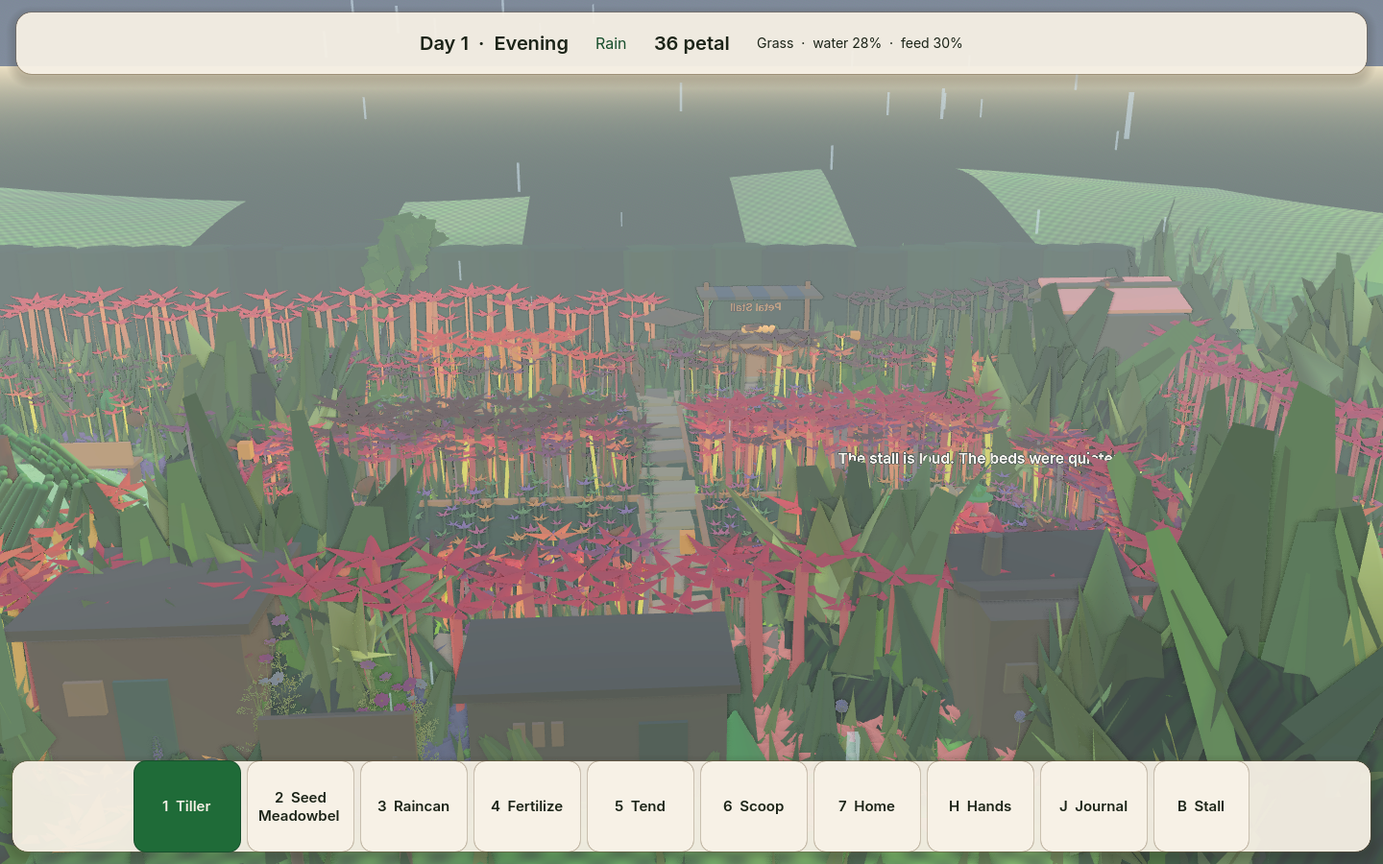
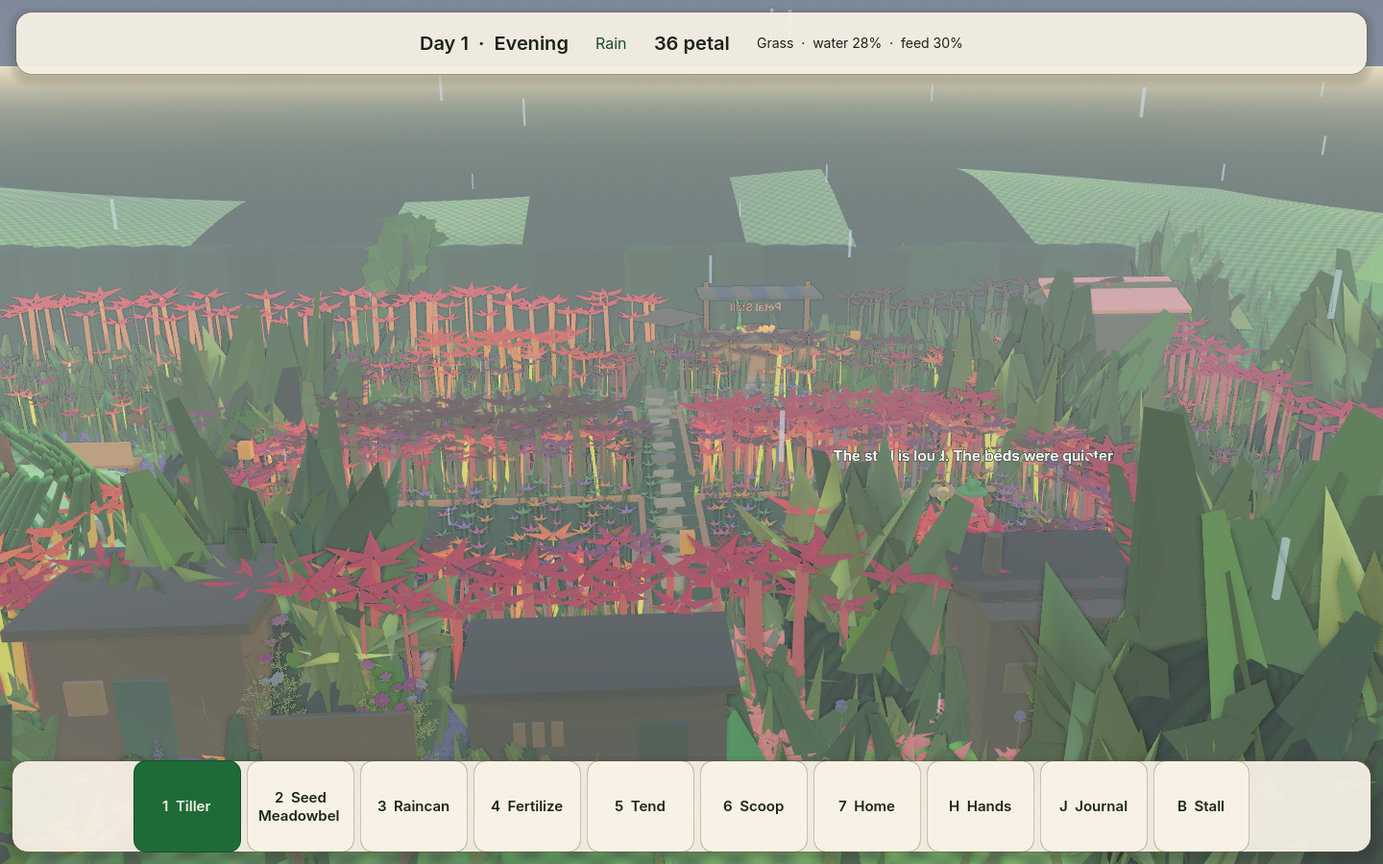
Narrow the north-south track between the beds.
The shoulders return to meadow and the center stays a stone track. On this shot 1.46% of the upper band is light-green and the hill mean is (212.2, 223.9, 146.6).

diff --git a/docs/PETALWILD_MASTER_STATE.md b/docs/PETALWILD_MASTER_STATE.md
@@ -38,7 +38,7 @@ This machine has no Vulkan surface. Godot falls back to OpenGL 3 / llvmpipe. Aud
 - The garden does not yet look like the concept plates. See the gap list below.
 - Bellhelp’s five sphere lobes are gone. Five narrow petals run from the tips down to a small pad, with a dark five-petal well, a gold seed, a wider flared whorl, a lower rim, five gap tips past the lobes, a darker band, and a wide short rank inside the tips. The wide skirt of spheres is gone.
 - Lumen’s stalk is one fluted taper, cream at the base and green at the crown. The raised hand holds a seed tray. Each hand is a palm with three fingers and a thumb.
-- Crest leaf cards are 0.4 scale, and the far hedge keeps one 2.5 m tuft in four. A dark shrub row stands just behind that wall, taller at the east end. Light-green in the upper opening band fell from 53% to 24%, and in the lower band from 36% to 13%. The hill did not move. The stall still shows through the middle. The bright blue in that opening was the awning cloth. That stripe is darker now, about (171, 171, 173), and the sky-blue detector on the overview is 0. The shrub row behind the wall was the pale green in the upper band. That check now covers 1.2%, down from 3.5%. The crest leaf cards and the far trees were the side-opening pale pixels. The north backdrop trees are shorter. Paths are dark dirt with darker flagstones. Blooms are rose. StandardMaterial specular is off. The bench and planter are darkened, bright plant-atlas texels are capped, and the lantern glass is amber. The pink disk by the south-west rail, the untilled grass-plot tops, the meadowbell petals, the mauve bed, the resident hands, the light flagstones, the path dirt, and the loose stones are darkened. Overview pixels at pure white are 0. A planted cell keeps the meadow lid, so the crop sits in the bed. The north and south plots meet across the lawn. Flowers spill past the outer edges of the four beds and still line the north-south path. The path center stays open. On this shot the upper-band check is 1.45% (1083 pixels) and the hill mean is (212.2, 223.9, 146.6). Eight bees drift over the beds. Four birds cross the garden by day and perch at dusk and in the rain.
+- Crest leaf cards are 0.4 scale, and the far hedge keeps one 2.5 m tuft in four. A dark shrub row stands just behind that wall, taller at the east end. Light-green in the upper opening band fell from 53% to 24%, and in the lower band from 36% to 13%. The hill did not move. The stall still shows through the middle. The bright blue in that opening was the awning cloth. That stripe is darker now, about (171, 171, 173), and the sky-blue detector on the overview is 0. The shrub row behind the wall was the pale green in the upper band. That check now covers 1.2%, down from 3.5%. The crest leaf cards and the far trees were the side-opening pale pixels. The north backdrop trees are shorter. Paths are dark dirt with darker flagstones. Blooms are rose. StandardMaterial specular is off. The bench and planter are darkened, bright plant-atlas texels are capped, and the lantern glass is amber. The pink disk by the south-west rail, the untilled grass-plot tops, the meadowbell petals, the mauve bed, the resident hands, the light flagstones, the path dirt, and the loose stones are darkened. Overview pixels at pure white are 0. A planted cell keeps the meadow lid, so the crop sits in the bed. The north and south plots meet across the lawn. Flowers spill past the outer edges of the four beds and still line the north-south path. The path center stays open. The north-south track is narrower and its shoulders are meadow. On this shot the upper-band check is 1.46% (1091 pixels) and the hill mean is (212.2, 223.9, 146.6). Eight bees drift over the beds. Four birds cross the garden by day and perch at dusk and in the rain.
 - City, venues, and the agent civilisation are a single parish record (`data/district.json`, Hedge Hollow, phase A).
 - On-screen jellies stay at district fidelity or nearer. The directory shows each resident's home and job. The parish page lists venues. Petal Stall, the potting shed, the hedge tea house, the research hut, the media foundry, and the town hall board are open. Grove Park is not built, and demand for it is not simulated. Petal Stall demand is the people present plus creature residents.
 - Trust cannot research, draft, or act outside the process.
@@ -64,14 +64,14 @@ Spent: 0. Remaining on the connected account: **367.46** (pro). Catalog check re
 
 Compared `docs/screenshots/wave1_overview.png`, `wave1_jelly.png`, and `wave1_lumen.png` with `docs/reference/petalwild_target_garden_01.png` and `petalwild_target_garden_02.png`.
 
-The north backdrop trees are shorter than the hedge. Crest leaf cards are 0.4 scale, and the far hedge keeps one 2.5 m tuft in four. A dark shrub row stands just behind that wall, taller at the east end. Light-green pixels fell from 53% to 24% in the upper opening band (screen y 265–320) and from 36% to 13% in the lower band (y 290–360). East-lip luminance (y 252–272) fell from 200 to 162. The hill (y 200–245) did not change. Bellhelp’s close-up is on open lawn: five narrow lobes, a dark five-petal well, a gold seed, a wider flared whorl, a lower rim, five gap tips past the lobes, a darker band, and a wide short rank inside the tips. The bench and planter use a dark multiply, bright plant-atlas texels are capped, and the lantern glass is amber. The pink disk by the south-west rail, the untilled grass-plot tops, the meadowbell petals, the mauve bed, the resident hands, the light flagstones, the path dirt, and the loose stones are darkened. Pure white on this overview is 0. The stall awning’s bright blue was cloth, now about (171, 171, 173), and the sky-blue detector is 0. The shrub row behind the wall no longer reads as pale green; that upper-band check is 1.2%. On the previous shot that check was 1.17% and the hill mean was (212.9, 224.4, 147.6). With the hedge tea house in the lower left, that shot was 1.30%. With the research hut in the lower middle, that shot was 1.17% (874 pixels). With the media foundry in the lower middle, that shot was 1.15% (862 pixels). With the town hall board in the south gate, that shot was 1.29% (968 pixels) and the hill mean was (212.0, 223.6, 146.4). On that shot the check was 1.54% (1155 pixels) and the hill mean was (212.0, 223.7, 146.5). Empty untilled beds now carry nine dark leaf discs and eight short flowers, and a tilled or planted bed clears them. On the leaf-cover shot the check was 1.60% (1197 pixels) and the hill mean was (212.1, 223.8, 146.5). Neighboring empty cells now share an overlapping dark lid, so the brown seam inside a plot closes. On the joined-lid shot the check was 1.61% (1208 pixels) and the hill mean was (212.1, 223.8, 146.5). A planted cell now keeps that dark lid, so the crop sits in the meadow instead of an inset square. On the planted-lid shot the check was 1.54% (1149 pixels) and the hill mean was (212.1, 223.7, 146.5). The north and south plots now meet across the lawn, and the north-south path stays open. On the bridge shot the check was 1.57% (1176 pixels) and the hill mean was (212.2, 223.8, 146.6). Flowers now sit on both lips of the north-south path, and the path center stays open. On the path-lip shot the check was 1.61% (1204 pixels) and the hill mean was (212.1, 223.8, 146.5). Flowers now spill past the outer edges of the four beds, and the path-center pixels are unchanged. On this shot the check is 1.45% (1083 pixels) and the hill mean is (212.2, 223.9, 146.6). The swing is the west edge of the hill under the swaying leaves. A planted meadowbell is three bells on a leaf pad, and every crop sits in a ring of eight leaves. Eight bees drift over the beds. Four birds cross the garden by day and perch at dusk and in the rain. Paths are flagstones on dark dirt. Lumen’s stalk is one fluted taper, and the raised hand holds the seed tray. `PETAL_SMOKE_OK`, `PETAL_RULES_OK`, and `PETAL_CAPTURE_OK` passed on this tree. Shots are the six `wave1_*.png` files.
+The north backdrop trees are shorter than the hedge. Crest leaf cards are 0.4 scale, and the far hedge keeps one 2.5 m tuft in four. A dark shrub row stands just behind that wall, taller at the east end. Light-green pixels fell from 53% to 24% in the upper opening band (screen y 265–320) and from 36% to 13% in the lower band (y 290–360). East-lip luminance (y 252–272) fell from 200 to 162. The hill (y 200–245) did not change. Bellhelp’s close-up is on open lawn: five narrow lobes, a dark five-petal well, a gold seed, a wider flared whorl, a lower rim, five gap tips past the lobes, a darker band, and a wide short rank inside the tips. The bench and planter use a dark multiply, bright plant-atlas texels are capped, and the lantern glass is amber. The pink disk by the south-west rail, the untilled grass-plot tops, the meadowbell petals, the mauve bed, the resident hands, the light flagstones, the path dirt, and the loose stones are darkened. Pure white on this overview is 0. The stall awning’s bright blue was cloth, now about (171, 171, 173), and the sky-blue detector is 0. The shrub row behind the wall no longer reads as pale green; that upper-band check is 1.2%. On the previous shot that check was 1.17% and the hill mean was (212.9, 224.4, 147.6). With the hedge tea house in the lower left, that shot was 1.30%. With the research hut in the lower middle, that shot was 1.17% (874 pixels). With the media foundry in the lower middle, that shot was 1.15% (862 pixels). With the town hall board in the south gate, that shot was 1.29% (968 pixels) and the hill mean was (212.0, 223.6, 146.4). On that shot the check was 1.54% (1155 pixels) and the hill mean was (212.0, 223.7, 146.5). Empty untilled beds now carry nine dark leaf discs and eight short flowers, and a tilled or planted bed clears them. On the leaf-cover shot the check was 1.60% (1197 pixels) and the hill mean was (212.1, 223.8, 146.5). Neighboring empty cells now share an overlapping dark lid, so the brown seam inside a plot closes. On the joined-lid shot the check was 1.61% (1208 pixels) and the hill mean was (212.1, 223.8, 146.5). A planted cell now keeps that dark lid, so the crop sits in the meadow instead of an inset square. On the planted-lid shot the check was 1.54% (1149 pixels) and the hill mean was (212.1, 223.7, 146.5). The north and south plots now meet across the lawn, and the north-south path stays open. On the bridge shot the check was 1.57% (1176 pixels) and the hill mean was (212.2, 223.8, 146.6). Flowers now sit on both lips of the north-south path, and the path center stays open. On the path-lip shot the check was 1.61% (1204 pixels) and the hill mean was (212.1, 223.8, 146.5). Flowers now spill past the outer edges of the four beds, and the path-center pixels are unchanged. On the bed-edge shot the check was 1.45% (1083 pixels) and the hill mean was (212.2, 223.9, 146.6). The north-south track is narrower, its shoulders are meadow, and the center stays stone. On this shot the check is 1.46% (1091 pixels) and the hill mean is (212.2, 223.9, 146.6). The swing is the west edge of the hill under the swaying leaves. A planted meadowbell is three bells on a leaf pad, and every crop sits in a ring of eight leaves. Eight bees drift over the beds. Four birds cross the garden by day and perch at dusk and in the rain. Paths are flagstones on dark dirt. Lumen’s stalk is one fluted taper, and the raised hand holds the seed tray. `PETAL_SMOKE_OK`, `PETAL_RULES_OK`, and `PETAL_CAPTURE_OK` passed on this tree. Shots are the six `wave1_*.png` files.
 
 Three largest gaps still open, against `docs/reference/petalwild_target_garden_01.png` and `petalwild_target_garden_02.png`:
 
-1. **Hedge skyline.** The crest cards and the far trees are darker. On this shot 1.45% of the upper band is still light-green (1083 pixels), mostly the west edge of the hill. The hill mean is (212.2, 223.9, 146.6). The stall still shows through the middle. The south rooms, the gate board, and the bed blooms sit lower and do not cover that edge. PETAL-05.
+1. **Hedge skyline.** The crest cards and the far trees are darker. On this shot 1.46% of the upper band is still light-green (1091 pixels), mostly the west edge of the hill. The hill mean is (212.2, 223.9, 146.6). The stall still shows through the middle. The south rooms, the gate board, and the bed blooms sit lower and do not cover that edge. PETAL-05.
 2. **Bellhelp.** Ten tips, a short rank inside them, a darker band, and a wider skirt. The dark throat is still the center. PETAL-03.
-3. **Plot grid.** Flowers spill past the outer edges of the four beds and still line the north-south path. The path center stays open. That path still cuts the west beds from the east beds. The plates are one continuous planting. Overview pixels at pure white are 0, and the brightest leftover is still the warm horizon at screen x 1034, y 178, (255, 255, 201). That is sky. PETAL-06.
+3. **Plot grid.** Flowers spill past the outer edges of the four beds and still line the north-south path. The north-south track is narrower, its shoulders are meadow, and the center stays a stone track. That track still cuts the west beds from the east beds. The plates are one continuous planting. Overview pixels at pure white are 0, and the brightest leftover is still the warm horizon at screen x 1034, y 178, (255, 255, 201). That is sky. PETAL-06.
 
 ## Next integration
 
-Keep this build playable. The next pass stays inside `scenes/main.tscn` (Hedge Hollow). The creature chain through Gushorn can happen in this garden, and two resident Bellhelps raise the species to breeding. The later resident walks to the first, the journal says a pair is in the parish, a reload keeps that pair, and off-screen they share the first resident's home kit. Grove Park is still not built. The hedge tea house stands on the south lawn. The research hut stands west of it, and the media foundry stands between them. The town hall is a board by the south gate. Meadowbells are a clump of three, and every crop sits in a ring of leaves. Flowers spill past the outer edges of the four beds and still line the north-south path. The path center stays open. That path still cuts the west beds from the east beds. On this shot 1.45% of the upper band is still light green (1083 pixels), mostly the west edge of the hill, and the stall still shows through the middle. The hill mean is (212.2, 223.9, 146.6). The south rooms and the town hall board sit in the foreground. Bees sit on the flowers while it rains. Do not paint that hill edge, do not cut the hill, and do not raise the east shrubs. Do not fill Bellhelp’s dark throat. Do not open a side demo. The Kenney/Cara grove in `scripts/presentation/` is not the running scene.
+Keep this build playable. The next pass stays inside `scenes/main.tscn` (Hedge Hollow). The creature chain through Gushorn can happen in this garden, and two resident Bellhelps raise the species to breeding. The later resident walks to the first, the journal says a pair is in the parish, a reload keeps that pair, and off-screen they share the first resident's home kit. Grove Park is still not built. The hedge tea house stands on the south lawn. The research hut stands west of it, and the media foundry stands between them. The town hall is a board by the south gate. Meadowbells are a clump of three, and every crop sits in a ring of leaves. Flowers spill past the outer edges of the four beds and still line the north-south path. The north-south track is narrower, its shoulders are meadow, and the center stays a stone track. That track still cuts the west beds from the east beds. On this shot 1.46% of the upper band is still light green (1091 pixels), mostly the west edge of the hill, and the stall still shows through the middle. The hill mean is (212.2, 223.9, 146.6). The south rooms and the town hall board sit in the foreground. Bees sit on the flowers while it rains. Do not paint that hill edge, do not cut the hill, and do not raise the east shrubs. Do not fill Bellhelp’s dark throat. Do not open a side demo. The Kenney/Cara grove in `scripts/presentation/` is not the running scene.

diff --git a/docs/VISUAL_GAP.md b/docs/VISUAL_GAP.md
@@ -2,12 +2,12 @@
 
 Compared on 2026-09-22. The scene `tools/run.sh` launches is Hedge Hollow. Shots: `docs/screenshots/wave1_overview.png`, `wave1_jelly.png`, `wave1_lumen.png`. Targets: `docs/reference/petalwild_target_garden_01.png` and `petalwild_target_garden_02.png`.
 
-The north backdrop trees are shorter than the hedge. Crest leaf cards are 0.4 of their old size, and the far wall keeps one 2.5 m tuft in four. A row of dark shrubs stands just behind that wall. The east end is taller so its lip meets the hedge line. Light-green pixels in the upper opening band (screen y 265–320, x 40–1400) fell from 53% to 24%, and in the lower band (y 290–360, x 80–1200) from 36% to 13%. On the east lip (y 252–272, x 40–300) mean luminance fell from 200 to 162. The hill (y 200–245) did not change. The stall still sits in front of the middle of the wall. The bright blue band in that opening was the awning cloth, not a hole in the hedge. That stripe is darker now and reads about (171, 171, 173). A sky-blue detector on the overview (blue above 200, ahead of red by 20 and of green by 10) is 0. The shrub row behind the wall was lifting to pale green under the sun. The same light-green check (green ahead of red by 15 and of blue by 20, green above 140) now covers 1.2% of the upper band, down from 3.5% on the previous shot. The crest leaf cards and the far trees were the pale pixels in the side openings. The upper hill (screen y 200–230) stayed at about (213, 224, 148). The ground sky below the horizon is green, so a hole in the hill reads as olive rather than pale sky. Bellhelp’s close-up shows five pointed lobes, five gap tips past them, a wide short rank inside that ring, a darker band, and a wider flared whorl. The dark throat stays. The wide skirt of spheres is gone. The bench and planter use a dark multiply on the prop texture, and bright plant-atlas texels are capped. The three lantern glasses are amber instead of pure white. The pink disk by the south-west rail, the untilled grass-plot tops, the meadowbell petals, the mauve bed, the resident hands, the light flagstones, the path dirt, and the loose stones are darkened so they stay under the sun. Eight bees drift over the beds. Four birds cross the garden by day and perch at dusk and in the rain. A planted meadowbell is three bells on a leaf pad, and every crop sits in a ring of eight leaves. Pure white on this overview is 0. On the previous shot the upper-band light-green check was 1.17% and the hill mean was (212.9, 224.4, 147.6). The hedge tea house stands in the lower left of the home shot. On that shot the same check was 1.30% (969 pixels) and the hill mean was (212.0, 223.6, 146.4). The research hut stands in the lower middle of that shot, where the check was 1.17% (874 pixels) and the hill mean was (212.0, 223.6, 146.4). The media foundry stands in the lower middle of that shot, where the check was 1.15% (862 pixels) and the hill mean was (212.0, 223.6, 146.4). The town hall board now stands in the south gate. On the town-hall shot the check was 1.29% (968 pixels) and the hill mean was (212.0, 223.6, 146.4). On the six-bloom shot the check was 1.54% (1155 pixels) and the hill mean was (212.0, 223.7, 146.5). Empty untilled beds now carry nine dark leaf discs and eight short flowers, and a tilled or planted bed clears them. On the leaf-cover shot the check was 1.60% (1197 pixels) and the hill mean was (212.1, 223.8, 146.5). Neighboring empty cells now share an overlapping dark lid, so the brown seam inside a plot closes. On the joined-lid shot the check was 1.61% (1208 pixels) and the hill mean was (212.1, 223.8, 146.5). A planted cell now keeps that dark lid, so the crop sits in the meadow instead of an inset square. On the planted-lid shot the check was 1.54% (1149 pixels) and the hill mean was (212.1, 223.7, 146.5). The north and south plots now meet across the lawn, and the north-south path stays open. On the bridge shot the check was 1.57% (1176 pixels) and the hill mean was (212.2, 223.8, 146.6). Flowers now sit on both lips of the north-south path, and the path center stays open. On the path-lip shot the check was 1.61% (1204 pixels) and the hill mean was (212.1, 223.8, 146.5). Flowers now spill past the outer edges of the four beds, and the path-center pixels are unchanged. On this shot the check is 1.45% (1083 pixels) and the hill mean is (212.2, 223.9, 146.6). The swing is the west edge of the hill under the swaying leaves.
+The north backdrop trees are shorter than the hedge. Crest leaf cards are 0.4 of their old size, and the far wall keeps one 2.5 m tuft in four. A row of dark shrubs stands just behind that wall. The east end is taller so its lip meets the hedge line. Light-green pixels in the upper opening band (screen y 265–320, x 40–1400) fell from 53% to 24%, and in the lower band (y 290–360, x 80–1200) from 36% to 13%. On the east lip (y 252–272, x 40–300) mean luminance fell from 200 to 162. The hill (y 200–245) did not change. The stall still sits in front of the middle of the wall. The bright blue band in that opening was the awning cloth, not a hole in the hedge. That stripe is darker now and reads about (171, 171, 173). A sky-blue detector on the overview (blue above 200, ahead of red by 20 and of green by 10) is 0. The shrub row behind the wall was lifting to pale green under the sun. The same light-green check (green ahead of red by 15 and of blue by 20, green above 140) now covers 1.2% of the upper band, down from 3.5% on the previous shot. The crest leaf cards and the far trees were the pale pixels in the side openings. The upper hill (screen y 200–230) stayed at about (213, 224, 148). The ground sky below the horizon is green, so a hole in the hill reads as olive rather than pale sky. Bellhelp’s close-up shows five pointed lobes, five gap tips past them, a wide short rank inside that ring, a darker band, and a wider flared whorl. The dark throat stays. The wide skirt of spheres is gone. The bench and planter use a dark multiply on the prop texture, and bright plant-atlas texels are capped. The three lantern glasses are amber instead of pure white. The pink disk by the south-west rail, the untilled grass-plot tops, the meadowbell petals, the mauve bed, the resident hands, the light flagstones, the path dirt, and the loose stones are darkened so they stay under the sun. Eight bees drift over the beds. Four birds cross the garden by day and perch at dusk and in the rain. A planted meadowbell is three bells on a leaf pad, and every crop sits in a ring of eight leaves. Pure white on this overview is 0. On the previous shot the upper-band light-green check was 1.17% and the hill mean was (212.9, 224.4, 147.6). The hedge tea house stands in the lower left of the home shot. On that shot the same check was 1.30% (969 pixels) and the hill mean was (212.0, 223.6, 146.4). The research hut stands in the lower middle of that shot, where the check was 1.17% (874 pixels) and the hill mean was (212.0, 223.6, 146.4). The media foundry stands in the lower middle of that shot, where the check was 1.15% (862 pixels) and the hill mean was (212.0, 223.6, 146.4). The town hall board now stands in the south gate. On the town-hall shot the check was 1.29% (968 pixels) and the hill mean was (212.0, 223.6, 146.4). On the six-bloom shot the check was 1.54% (1155 pixels) and the hill mean was (212.0, 223.7, 146.5). Empty untilled beds now carry nine dark leaf discs and eight short flowers, and a tilled or planted bed clears them. On the leaf-cover shot the check was 1.60% (1197 pixels) and the hill mean was (212.1, 223.8, 146.5). Neighboring empty cells now share an overlapping dark lid, so the brown seam inside a plot closes. On the joined-lid shot the check was 1.61% (1208 pixels) and the hill mean was (212.1, 223.8, 146.5). A planted cell now keeps that dark lid, so the crop sits in the meadow instead of an inset square. On the planted-lid shot the check was 1.54% (1149 pixels) and the hill mean was (212.1, 223.7, 146.5). The north and south plots now meet across the lawn, and the north-south path stays open. On the bridge shot the check was 1.57% (1176 pixels) and the hill mean was (212.2, 223.8, 146.6). Flowers now sit on both lips of the north-south path, and the path center stays open. On the path-lip shot the check was 1.61% (1204 pixels) and the hill mean was (212.1, 223.8, 146.5). Flowers now spill past the outer edges of the four beds, and the path-center pixels are unchanged. On the bed-edge shot the check was 1.45% (1083 pixels) and the hill mean was (212.2, 223.9, 146.6). The north-south track is narrower, its shoulders are meadow, and the center stays stone. On this shot the check is 1.46% (1091 pixels) and the hill mean is (212.2, 223.9, 146.6). The swing is the west edge of the hill under the swaying leaves.
 
 ## Three largest gaps
 
-1. **Hedge skyline.** The crest cards and the far trees are darker. On this shot 1.45% of the upper band is still light-green (1083 pixels), mostly the west edge of the hill. The hill mean is (212.2, 223.9, 146.6). The stall still shows through the middle. The south rooms, the gate board, and the bed blooms sit lower and do not cover that edge. PETAL-05.
+1. **Hedge skyline.** The crest cards and the far trees are darker. On this shot 1.46% of the upper band is still light-green (1091 pixels), mostly the west edge of the hill. The hill mean is (212.2, 223.9, 146.6). The stall still shows through the middle. The south rooms, the gate board, and the bed blooms sit lower and do not cover that edge. PETAL-05.
 
 2. **Bellhelp.** Ten tips, a short rank inside them, a darker band, and a wider skirt. The dark throat is still the center. PETAL-03.
 
-3. **Plot grid.** Flowers spill past the outer edges of the four beds and still line the north-south path. The path center stays open. That path still cuts the west beds from the east beds. The plates are one continuous planting. Overview pixels at pure white are 0, and the brightest leftover is still the warm horizon at screen x 1034, y 178, (255, 255, 201). That is sky. PETAL-06.
+3. **Plot grid.** Flowers spill past the outer edges of the four beds and still line the north-south path. The north-south track is narrower, its shoulders are meadow, and the center stays a stone track. That track still cuts the west beds from the east beds. The plates are one continuous planting. Overview pixels at pure white are 0, and the brightest leftover is still the warm horizon at screen x 1034, y 178, (255, 255, 201). That is sky. PETAL-06.
